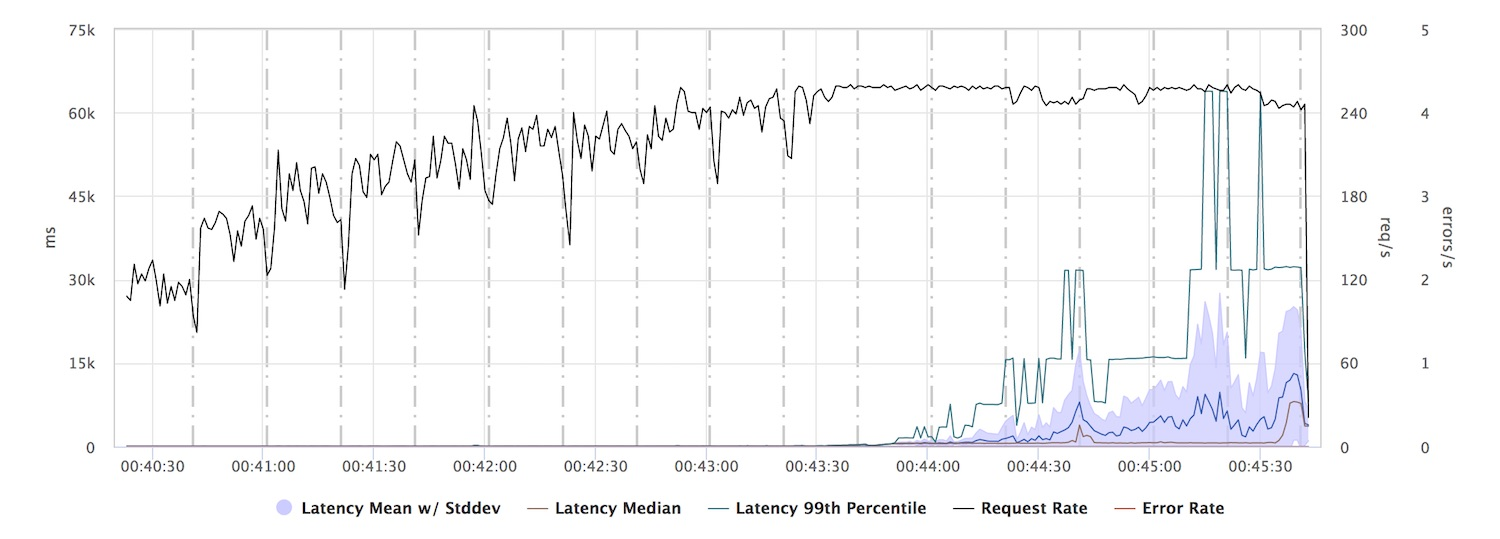
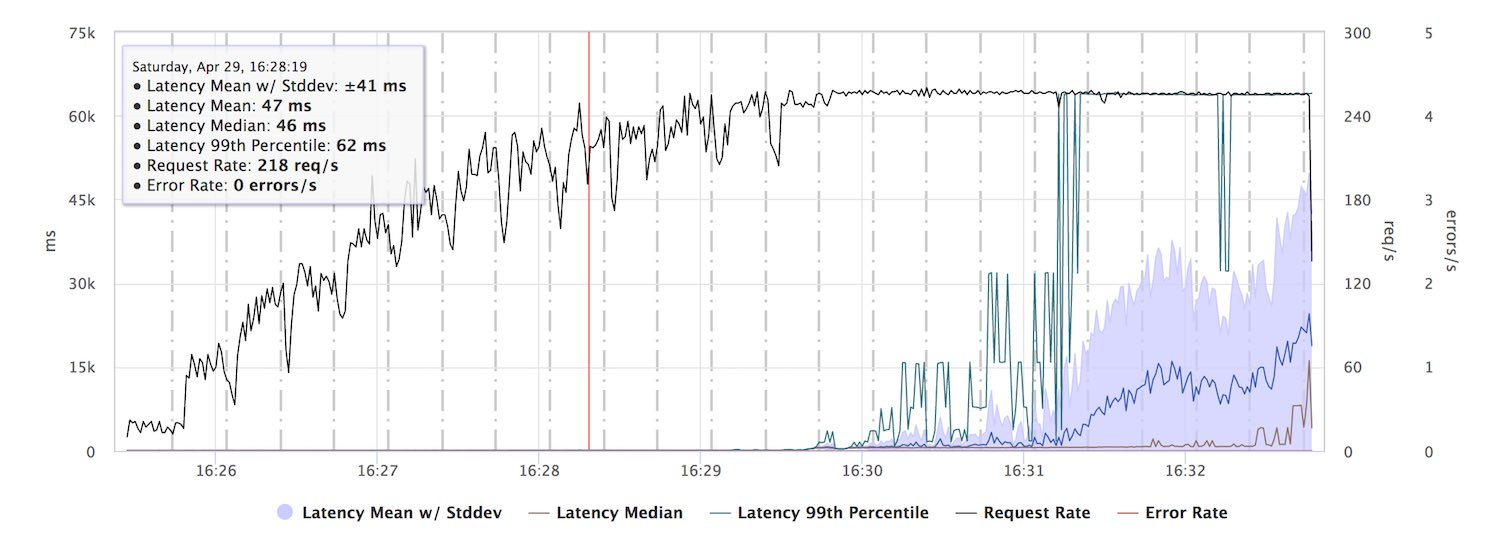
-

diff --git a/_posts/2017-04-26-web-services-with-rust-part-2-baseline-revisited.md b/_posts/2017-04-26-web-services-with-rust-part-2-baseline-revisited.md
@@ -64,10 +64,14 @@ The StormForger test case setup:
     definition.setTarget("xxx:8080");
 
     definition.setArrivalPhases([
+      { duration: 20, rate: 20},
+      { duration: 20, rate: 60},
+      { duration: 20, rate: 100},
       { duration: 20, rate: 120},
       { duration: 20, rate: 160},
       { duration: 20, rate: 180},
       { duration: 20, rate: 200},
+      { duration: 20, rate: 210},
       { duration: 20, rate: 220},
       { duration: 20, rate: 230},
       { duration: 20, rate: 240},
@@ -79,6 +83,9 @@ The StormForger test case setup:
       { duration: 20, rate: 300},
       { duration: 20, rate: 310},
       { duration: 20, rate: 320},
+      { duration: 20, rate: 330},
+      { duration: 20, rate: 340},
+      { duration: 20, rate: 350},
     ]);
 
     definition.setTestOptions({
@@ -89,19 +96,52 @@ The StormForger test case setup:
       context.get("/data", { tag: "root" });
     });
 
-This test runs for 5 minutes and gradually increases the rate of arriving clients from 120/s to 320/s,
-each doing a single request.
+This test runs for about 7 minutes and gradually increases the rate of arriving clients from
+20/s to 350/s, each doing a single request.
 
-When running this against a single threaded version of our test server, we
+When running this against a single threaded version of our test server, the response
+latencies start to degrade at about 200 req/s. This is the maximum throughput of the
+server, requests start to pile up and are completed down the line with very high latencies.
 
 ![Test 1 - Client Side Graph](/assets/img/web-rust/test1/test1_sf_graph.jpg)
 
-![Test 1 - Server Side Graph](/assets/img/web-rust/test1/test1_gf_graph.jpg)
+While a capacity of 200 req/s seems surprisingly low for our server, a look at the internal
+latency metrics for the CPU intensive work the server is doing provides an explanation.
+Each work operation takes around 4ms and this plus network stack operations is roughly
+what fits 200 times into a second.
 
+![Test 1 - Server Side Graph](/assets/img/web-rust/test1/test1_gf_latencies.jpg)
 
+The next graph shows the rate of internally completed requests, which roughly corresponds
+to the request rate measured on the client side.
 
-### Test Case:
+![Test 1 - Server Side Graph](/assets/img/web-rust/test1/test1_gf_reqs.jpg)
 
+Out of curiosity I also took the count and rate of connections the server has taken from
+the listen queue.
 
-TBD...
+![Test 1 - Server Side Graph](/assets/img/web-rust/test1/test1_gf_conn.jpg)
 
+The server is using a [listen queue size of 128](https://github.com/algermissen/web-rust/blob/51019037c4b6478e953e51a1c016a5dd7ada2b1a/src/bin/testserver.rs#L90)
+and that corresponds very much to the number of current requests in the graph. This leaves me a bit
+puzzled, because I would have thought that, given the asynchronous nature of Tokio, the
+server would just grab all the requests it can get of the queue, leading to an increasing number of
+connected clients. Changing the queue size affects the number of current connections so there is
+clearly something going on I do not yet understand to be investigated at later time. (Some
+interesting details of the listen queue are discussed in
+[How TCP backlog works in Linux](http://veithen.github.io/2014/01/01/how-tcp-backlog-works-in-linux.html))
+
+Having said that, changing the listen queue capacity did not affect performance results so I leave it at that
+for now.
+
+### Take Away
+
+I did some cross checking with more threads and reduced CPU intensive work, confirming that the
+conclusions above at least make sense and that I can now proceed with a better baseline
+than I had established in part 1 of this series.
+
+Although obvious, I found it an interesting observation that the capacity of an asynchronous server
+eventually is a function of the latency of the CPU bound work it is doing. Hence, if we want to
+leverage the no-cost abstractions nature of Rust and asynchronous IO to squeeze more capacity out
+of the available resources, activities like HTML template rendering or JSON serialization/deserialization
+directly impact the capacity limit of a server.
